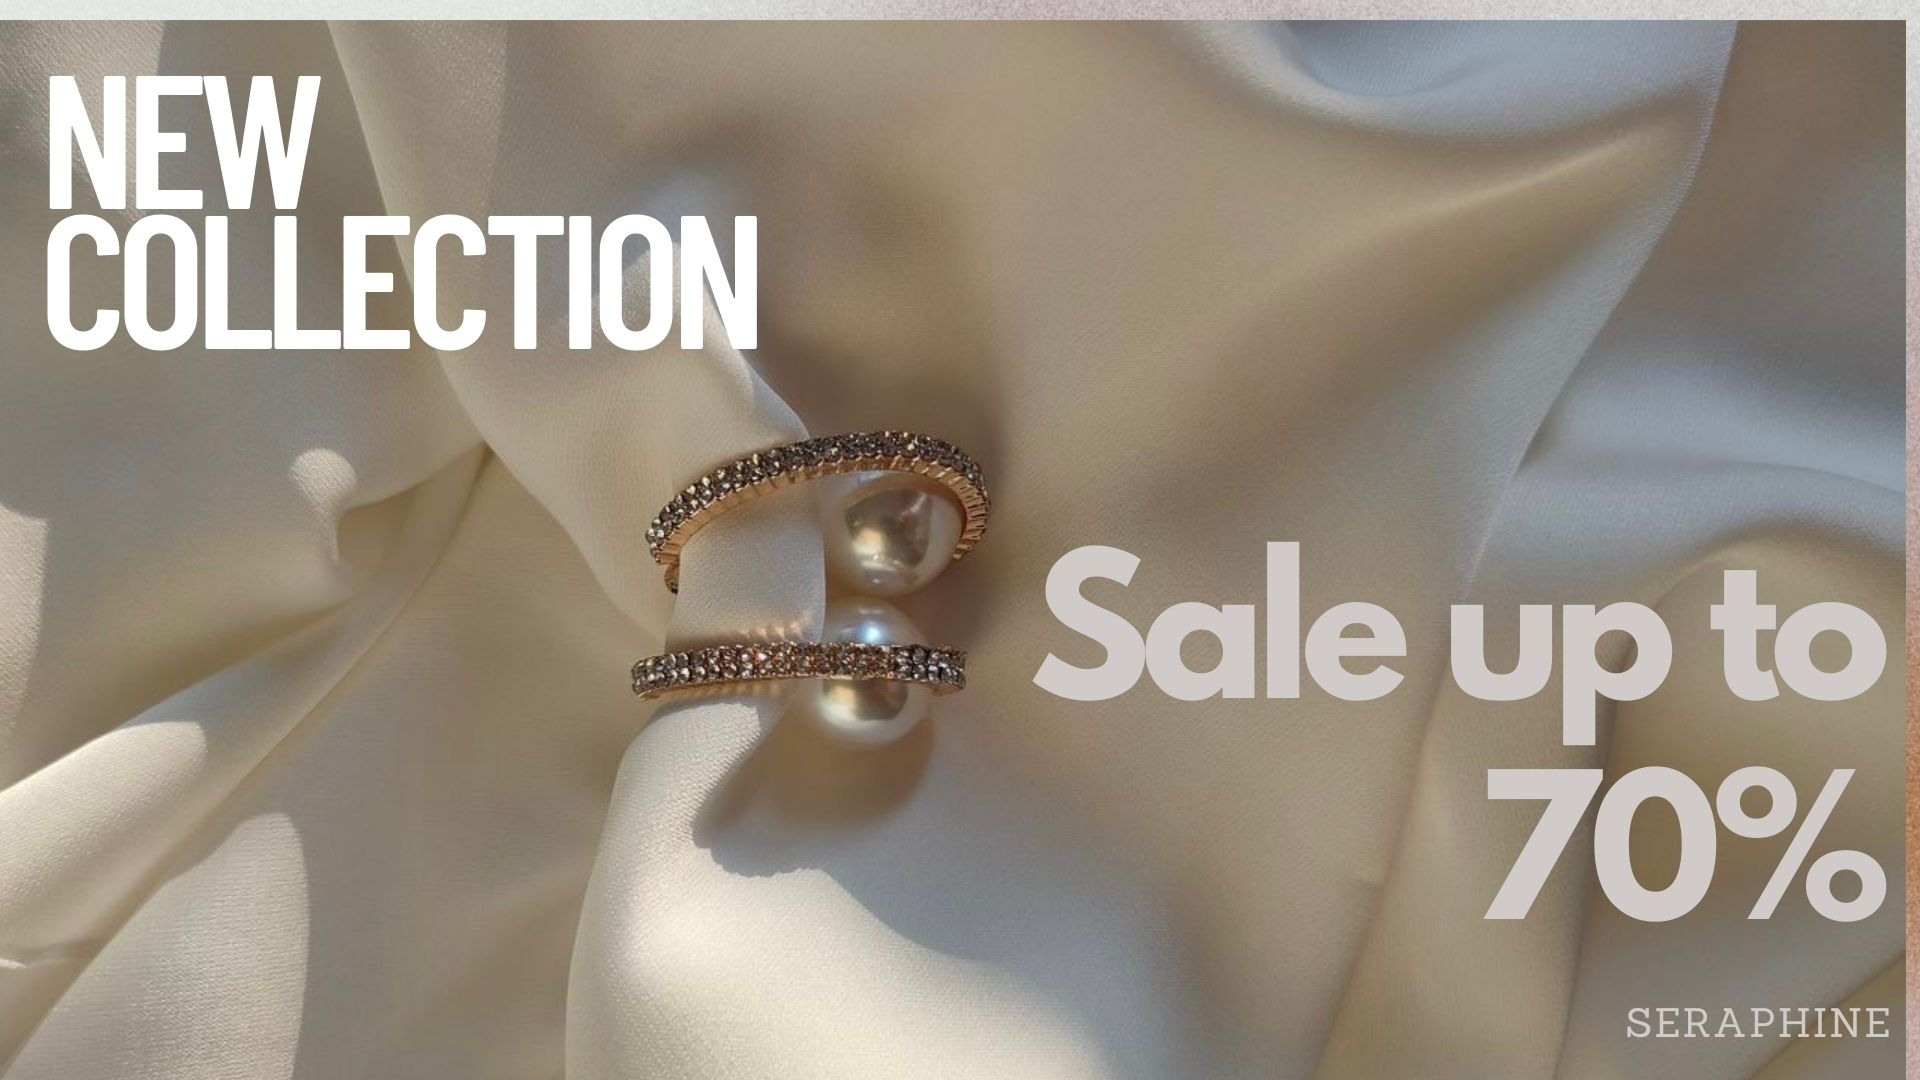
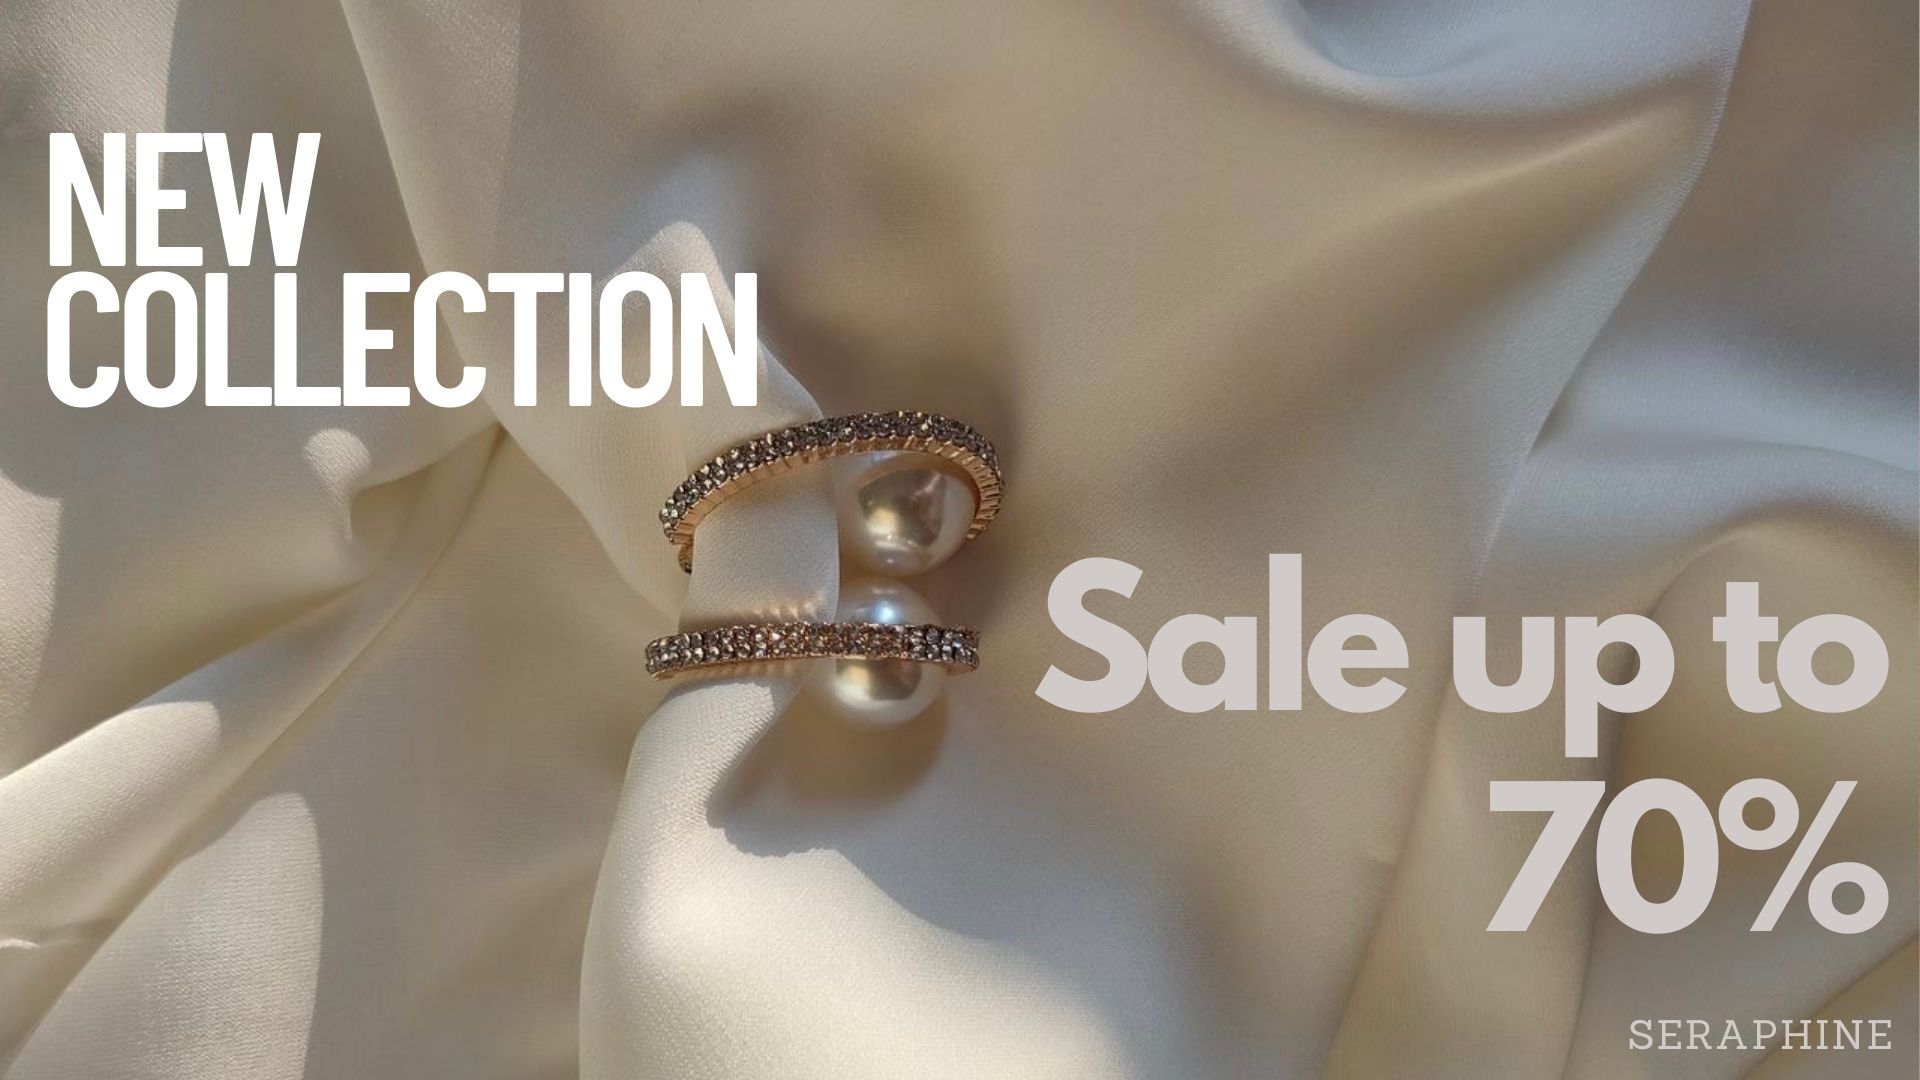
them

diff --git a/template_tkweb/wish-master/styles/khuyenmai.css b/template_tkweb/wish-master/styles/khuyenmai.css
@@ -2,43 +2,100 @@
     color: #937c6f;
 }
 
-/*#banner {
-    margin: 40px 0;
+
+/*cho content*/
+@media screen and (min-width: 700px) {
+    .article-hero__date {
+        font-size: 20px;
+    }
 }
-/* Google fonts */
-/*@import url('https://fonts.googleapis.com/css2?family=Roboto:ital,wght@0,100;0,300;0,400;0,500;0,700;0,900;1,100;1,300;1,400;1,500;1,700;1,900&display=swap');
-{ 
-    font-family: 'Roboto', sans-serif;
-    margin: 0;
-    padding: 0;
-    box-sizing: border-box;
-
-}*/
-
-/*.main_nav li a.active::after{
-    content: "";
-    width: 30%;
-    height: 2px;
-    background: #937c6f;
-    position: absolute;
-    bottom: -3px;
-    left: 20px;
-}*/
-
-/*.banner {
-    margin-top: 120px;  Đẩy phần tử xuống để không trùng với header 
-    display: flex;
-    color: black;
+.article-hero__date {
+    display: inline-block;
+    font-family: ProximaNovaSemibold, Helvetica Neue, Helvetica, Arial, sans-serif;
+    font-weight: 600;
+    padding: 7px 11px;
+    height: 27px;
+    margin-bottom: 10px;
+    font-size: 17px;
+    line-height: 20px;
+    background-color: #f0f0f0;
     text-align: center;
-    padding: 20px;
-    border: 1px solid #ccc;
 }
-/*#banner {
+
+/* gioi thieu */
+.gioithieu {
+    background-color: #f9f9f9;
+    border: 1px solid #ddd;
+    border-radius: 8px;
+    padding: 20px;
+    margin-top: 20px;
+    box-shadow: 0 4px 8px rgba(0, 0, 0, 0.1);
+    font-family: "Poppins", sans-serif;
+    color: #333;
+    line-height: 1.6;
+}
+
+.gioithieu p {
+    margin: 0;
+    text-align:justify;
+}
+
+.gioithieu p:first-of-type {
+    font-weight: normal;
+    color: #000000;
+    margin-bottom: 10px;
+}
+
+.gioithieu p span.color {
+    color: #d9534f;
+    font-weight: bold;
+}
+
+.gioithieu .gioithieu p:nth-of-type(4) {
+    font-style: italic;
+    margin-top: 20px;
+}
+
+.gioithieu p {
+    font-family: 'Poppins', sans-serif;
+    text-align: left;
+    font-size: 20px;
+}
+/* CSS cho Banner */
+.banner {
     display: flex;
-    top: 130px;
     flex-direction: column;
-    justify-content: center;
     align-items: center;
     text-align: center;
-    background-image: url("images/b2.jpg");
-}*/
+    padding: 100px 20px 20px 20px; /* Đảm bảo đủ khoảng cách giữa menu và banner */
+    position: relative;
+    z-index: 1; /* Đảm bảo banner không bị menu che khuất */
+}
+
+.banner .top {
+    margin-bottom: 20px;
+}
+
+.banner .bottom img {
+    max-width: 100%;
+    height: auto;
+}
+
+.btn.btn-1 {
+    display: inline-block;
+    margin-top: 20px;
+    padding: 10px 20px;
+    background-color: #000;
+    color: #fff;
+    text-decoration: none;
+    border-radius: 5px;
+}
+@supports (display:grid) {
+    @media screen and (min-width: 700px) {
+        .jewelry-grid {
+            display: grid;
+            grid-gap: 10px;
+            grid-template-columns: 1fr 1fr;
+        }
+    }
+}

diff --git a/template_tkweb/wish-master/khuyenmai.html b/template_tkweb/wish-master/khuyenmai.html
@@ -122,16 +122,35 @@
 	</div>
 	<!-- banner 1-->	
 	<section class="banner">
-		<div class="left">
-		  <span class="trend">Trend Design</span>
-		  <h1>New Collection 2021</h1>
-		  <p>New Arrival <span class="color">Sale 50% OFF</span> Limited Time Offer</p>
-		  <a href="#" class="btn btn-1">Discover Now</a>
+		<div class="bottom">
+		  <img src="./images/b25.jpg" alt="">
 		</div>
-		<div class="right">
-		  <img src="./images/b22.jpg" alt="">
+		<div class="content">
+			<span class="article-hero__date">07/2024</span>
+			<h1>New Collection 2024</h1>
+			<p>New Arrival <span class="color">Sale up to 70% </span> Limited Time Offer</p>
+			<div  class="gioithieu">
+				<p>📢 THÔNG BÁO KHUYẾN MÃI
+				<br>Chào mừng quý khách đến với bộ sưu tập trang sức mới ra mắt của chúng tôi! Nhằm tri ân khách hàng và đánh dấu sự kiện đặc biệt này, chúng tôi tổ chức chương trình giảm giá khuyến mãi đặc biệt có thể lên tới 70% cho tất cả các sản phẩm trong bộ sưu tập mới.</br>		
+				Lưu ý: Chương trình khuyến mãi chỉ áp dụng khi mua tại cửa hàng. Hãy nhanh chân đến tham quan và mua sắm tại cửa hàng của chúng tôi để không bỏ lỡ cơ hội sở hữu những món trang sức tinh xảo với mức giá vô cùng hấp dẫn.
+				<br>Cảm ơn quý khách hàng đã luôn tin tưởng và ủng hộ chúng tôi. Hân hạnh được phục vụ! 🌟</br>
+		
+				<br>Thời gian khuyến mãi: Từ ngày 10/07/2024 đến ngày 30/07/2024</br>
+				Địa chỉ cửa hàng: <strong>127 Ô Chợ Dừa</strong></p>
+			</div>
 		</div>
-			</section>
+		<div class="jewelry-container" bis_skin_checked="1">
+			<div class="jewelry-grid" bis_skin_checked="1">
+				<img src="images/c1.jpg" class="push__img">
+				<img src="images/c2.jpg" class="push__img">
+				<img src="images/c3.jpg" class="push__img">
+				<img src="images/c4.jpg" class="push__img">
+			</div>
+		</div>
+	</section>
+	
+
+
 	<!-- Footer -->
 
 	<footer class="footer">
